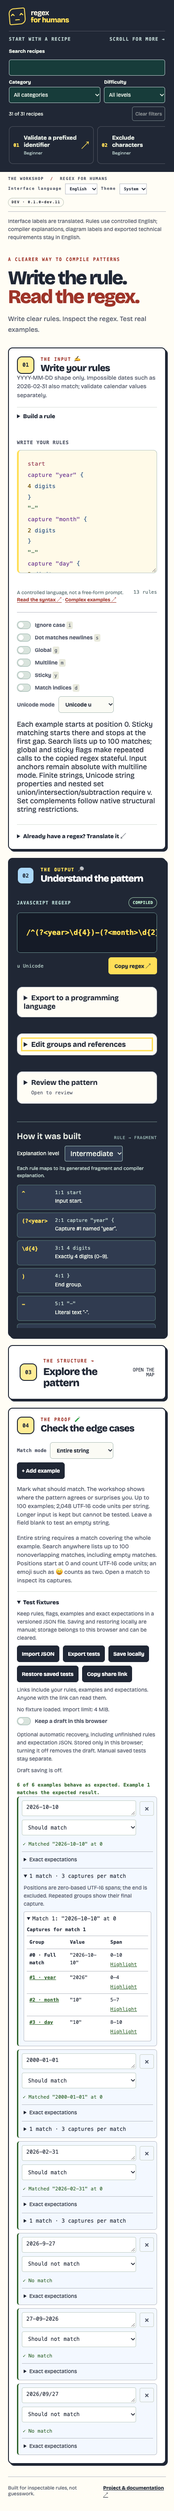
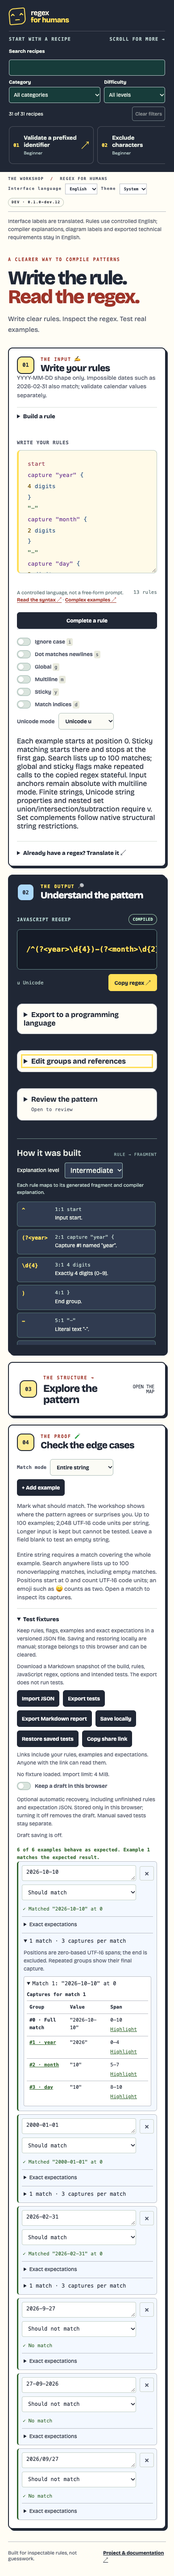
docs(release): refresh dev.12 candidate website and screenshots

Changed region(s): [[0.0308, 0.0, 0.9846, 0.9986], [0.8308, 0.8738, 0.8615, 0.9362], [0.8308, 0.8113, 0.8615, 0.8425]]

diff --git a/site/index.html b/site/index.html
@@ -27,7 +27,7 @@
   <link rel="icon" type="image/svg+xml" href="./favicon.svg">
   <link rel="stylesheet" href="./styles.css?v=c36c50783b5b">
   <link rel="preload" href="./assets/fonts/bricolage-grotesque-latin.woff2" as="font" type="font/woff2" crossorigin>
-  <script type="module" src="./app.js?v=cb02c32142f3"></script>
+  <script type="module" src="./app.js?v=eac301bac121"></script>
 </head>
 <body>
   <a class="skip-link" href="#main">Skip to content</a>
@@ -42,7 +42,7 @@
         <h1 id="page-title">Regex, with<br>a <span class="highlight">human side.</span></h1>
         <p class="hero-summary">Build a pattern you can explain. Write readable rules, import a supported regex, extract named fields, and test the edge cases.</p>
         <div class="hero-actions"><a class="button primary" href="./workshop/">Open the playground <span aria-hidden="true">🚀</span></a><a class="text-link" href="https://github.com/OthmaneBlial/Regex-For-Humans">Meet the code ↗</a></div>
-        <p class="npm-install"><a class="text-link" href="https://www.npmjs.com/package/regex-for-humans/v/0.1.0-dev.11"><span aria-hidden="true">📦</span> Get the npm preview ↗</a><br><code>npm install regex-for-humans@preview</code><br>Library + CLI · Node.js 22+</p>
+        <p class="npm-install"><a class="text-link" href="https://www.npmjs.com/package/regex-for-humans/v/0.1.0-dev.12"><span aria-hidden="true">📦</span> Get the npm preview ↗</a><br><code>npm install regex-for-humans@preview</code><br>Library + CLI · Node.js 22+</p>
         <div class="hero-notes"><span><span aria-hidden="true">🧠</span> Deterministic compiler</span><span><span aria-hidden="true">🔒</span> Runs locally</span><span><span aria-hidden="true">✨</span> No account</span></div>
       </div>
       <section class="demo" aria-labelledby="demo-title">
@@ -82,7 +82,7 @@ capture "day" {
   2 digits
 }
 end</code></pre></div>
-        <div class="capture-result"><span class="feature-index">THE NATIVE RESULT</span><h3><code>2026-10-10</code></h3><dl class="capture-fields"><div><dt>year</dt><dd>2026</dd></div><div><dt>month</dt><dd>10</dd></div><div><dt>day</dt><dd>10</dd></div></dl><p>A named group gives you a field. A numbered capture keeps its position. A noncapturing group keeps a block together.</p><div class="code-block regex-block"><div class="code-label"><span>JAVASCRIPT REGEX</span><button type="button" data-copy="capture-regex" disabled>Copy capture regex</button></div><pre><code id="capture-regex">/^(?&lt;year&gt;\d{4})-(?&lt;month&gt;\d{2})-(?&lt;day&gt;\d{2})$/u</code></pre></div><p class="scope-note">This checks a date shape, including impossible dates. Validate calendar values separately. Groups, captures, backward references and ordered alternatives are included in npm 0.1.0-dev.11.</p><a class="text-link" href="./workshop/docs/LANGUAGE.md#groups-and-captures">Explore nested groups and references ↗</a></div>
+        <div class="capture-result"><span class="feature-index">THE NATIVE RESULT</span><h3><code>2026-10-10</code></h3><dl class="capture-fields"><div><dt>year</dt><dd>2026</dd></div><div><dt>month</dt><dd>10</dd></div><div><dt>day</dt><dd>10</dd></div></dl><p>A named group gives you a field. A numbered capture keeps its position. A noncapturing group keeps a block together.</p><div class="code-block regex-block"><div class="code-label"><span>JAVASCRIPT REGEX</span><button type="button" data-copy="capture-regex" disabled>Copy capture regex</button></div><pre><code id="capture-regex">/^(?&lt;year&gt;\d{4})-(?&lt;month&gt;\d{2})-(?&lt;day&gt;\d{2})$/u</code></pre></div><p class="scope-note">This checks a date shape, including impossible dates. Validate calendar values separately. Groups, captures, backward references and ordered alternatives are included in npm 0.1.0-dev.12.</p><a class="text-link" href="./workshop/docs/LANGUAGE.md#groups-and-captures">Explore nested groups and references ↗</a></div>
       </div>
     </section>
     <section class="how-section section" id="how" aria-labelledby="how-title">
@@ -157,7 +157,7 @@ console.log(result.segments);</code></pre></div></article>
       <details><summary>Can flags apply to just one group?</summary><p>Use <code>group with flags "i" {</code> to ignore case inside one block; closing it restores the enclosing options. Local i/m/s flags also work with nested groups, captures and reverse translation. They require a compatible native engine: verified browser Unicode modes pass, while tested Node 22/25/26 editions receive an explicit unsupported-feature error. Cached source cannot bypass that check. <a href="./workshop/docs/LANGUAGE.md#scoped-flags-unreleased">Read the syntax and runtime limits</a>.</p></details>
       <details><summary>Are my test strings sent anywhere?</summary><p>The workshop matches in your browser's isolated worker. Rules and examples stay local. The page and its static assets are served by the hosting provider; no application backend receives your matching inputs.</p></details>
       <details><summary>Does a passing example prove a regex is safe?</summary><p>Examples establish selected behavior. The workshop bounds input and terminates a worker after 1,200 ms. A regex copied into another application needs that application's own execution safeguards.</p></details>
-      <details><summary>Which version should I use?</summary><p>npm 0.1.0-dev.11 is the development preview. The library and CLI compile whole-line comments and support group editing, SVG structure diagrams, risk notes and nine programming-language export formats. The workshop adds rule templates, syntax colors, exact span/capture/replacement expectations, fixture files and local save/restore, 31 searchable recipes, failure explanations and beginner/intermediate/expert notes. Precise quoted/property/class diagnostic ranges, input-edge failure explanations and complete snapshot links are included alongside aggregate result limits and efficient multiline paste handling. Four interface languages and system, light and dark themes are available. Install regex-for-humans@preview or try the browser workshop. Node.js 22+ is required by the library and CLI. Engine limitations are reported explicitly. Seven foreign-engine corpora pass, including PHP 8.5.11 / PCRE2 10.44; validate other editions. Human usability and screen reader reviews remain open.</p></details>
+      <details><summary>Which version should I use?</summary><p>npm 0.1.0-dev.12 is the development preview. The library and CLI compile whole-line comments and support group editing, SVG structure diagrams, risk notes and nine programming-language export formats. The workshop adds rule templates, syntax colors, validated class and closed-capture-reference completion with a complete rule preview, exact span/capture/replacement expectations, fixture files and local save/restore, and reproducible Markdown reports. Reports contain intended tests without running or certifying them. Optional draft recovery and before/after group-edit previews retain the current workspace until an edit is applied. Explore 31 searchable recipes, failure explanations and beginner/intermediate/expert notes. Precise quoted/property/class diagnostic ranges, input-edge failure explanations and complete snapshot links are included alongside aggregate result limits and efficient multiline paste handling. Four interface languages and system, light and dark themes are available. Install regex-for-humans@preview or try the browser workshop. Node.js 22+ is required by the library and CLI. Engine limitations are reported explicitly. Seven foreign-engine corpora pass, including PHP 8.5.11 / PCRE2 10.44; validate other editions. Human usability and screen reader reviews remain open.</p></details>
     </section>
     <section class="closing" aria-labelledby="closing-title"><span class="closing-face" aria-hidden="true">^_^</span><div><h2 id="closing-title">Make your next regex<br>a little more human.</h2><a class="button primary" href="./workshop/">Let's make a match <span aria-hidden="true">✨</span></a></div></section>
   </main>

diff --git a/docs/DISTRIBUTION.md b/docs/DISTRIBUTION.md
@@ -2,9 +2,9 @@
 
 ## Dev.12 candidate (11 October 2026)
 
-The local candidate combines parser/compiler-backed class and closed-capture-reference completion, the full selected-rule preview and reproducible Markdown reports from source milestones `e347aa0`, `3114933` and `9c9beab`. Package/lock metadata selects `0.1.0-dev.12`; public npm tags, the GitHub prerelease and owner Pages remain frozen dev.11. Current README/homepage links continue to describe that published version during preparation.
+The local candidate combines parser/compiler-backed class and closed-capture-reference completion, the full selected-rule preview and reproducible Markdown reports from source milestones `e347aa0`, `3114933` and `9c9beab`. Package/lock metadata selects `0.1.0-dev.12`; public npm tags, the GitHub prerelease and owner Pages remain frozen dev.11. Current README links describe that published version during preparation. Homepage source links/copy and refreshed screenshots target the dev.12 candidate; they have not been deployed.
 
-Required next evidence: the complete verification command, separate Node 22 suite, all seven required native profiles, refreshed real screenshots and synchronized final copy, exact retained-archive consumers on Node 25/22, source/tag agreement, registry/GitHub byte checks and owner Pages/live verification. No new publication is claimed before those steps. Older archives/tags remain immutable, source Actions stays disabled and independent human reviews remain open.
+Fresh candidate Node 25/22 suites pass (424 cases each, 420 passes and four explicit existing skips), seven required native profiles pass 8,782 span/capture comparisons, and a retained 420,613-byte prototype passes its clean-consumer check. The prototype predates final copy/screenshots and must not be published. The complete command is still running its browser/homepage gates. Required next evidence: completion of those gates, synchronized final README copy, exact final retained-archive consumers on Node 25/22, source/tag agreement, registry/GitHub byte checks and owner Pages/live verification. No new publication is claimed before those steps. Older archives/tags remain immutable, source Actions stays disabled and independent human reviews remain open.
 
 ## Published dev.11 (11 October 2026)
 

diff --git a/docs/TESTING.md b/docs/TESTING.md
@@ -2,7 +2,7 @@
 
 ## Dev.12 candidate verification (11 October 2026)
 
-Verification is in progress for source completion and Markdown reports under dev.12 package/lock metadata. The required complete command, separate Node 22 run, seven native profiles, exact final archive consumers and external publication have not yet produced dev.12 receipts. The successful source-component records below remain separate from this new distribution gate; public dev.11 remains unchanged during preparation.
+Verification is in progress for source completion and Markdown reports under dev.12 package/lock metadata. Fresh Node 25.9.0 and separate Node 22.23.3 runs each pass 420 of 424 cases, with four existing explicit scoped-native skips and no failures. All seven required native profiles pass 8,782 full span/mapped-capture comparisons. The retained prototype archive passes a clean-consumer check at 420,613 bytes; it predates final copy/screenshots and is not the publication archive. Fresh local smoke checks pass on Chrome desktop/mobile, Firefox desktop and WebKit mobile: raw draft recovery, nonmutating group previews, native captures/spans, closed-capture completion and Markdown roundtrip, with no document overflow or page errors. Wait for debounced draft writes to finish before checking that a preview/export preserves storage. Three real candidate screenshots are refreshed and visually inspected, alongside desktop/mobile group-preview details. The complete command is continuing through 726 Chromium checks, then Firefox/WebKit and homepage checks. Exact final archive consumers and external publication remain pending; public dev.11 remains unchanged during preparation.
 
 ## Unreleased Markdown report checks (11 October 2026)
 

diff --git a/docs/AUTONOMOUS_ROADMAP.md b/docs/AUTONOMOUS_ROADMAP.md
@@ -2,7 +2,7 @@
 
 ## Dev.12 distribution candidate
 
-- Package/lock metadata now selects dev.12 for the verified source class/reference completion, selected-rule preview and Markdown reports. The public registry, GitHub prerelease and owner Pages remain frozen dev.11; current published-version links are retained during preparation.
+- Package/lock metadata now selects dev.12 for the verified source class/reference completion, selected-rule preview and Markdown reports. The public registry, GitHub prerelease and owner Pages remain frozen dev.11; README published-version links are retained during preparation. Homepage source copy/links and refreshed real desktop/mobile screenshots target the candidate without being deployed.
 - Run a fresh complete runtime/browser/site/package gate, separate Node 22 and required native-profile checks, then synchronize final copy/screenshots and verify the exact retained archive before freezing/publishing. Record actual registry/GitHub/Pages delivery separately. Preserve previous archives/tags, disabled source Actions and unchecked human gates; the broader mission continues.
 
 ## Unreleased Markdown report milestone
